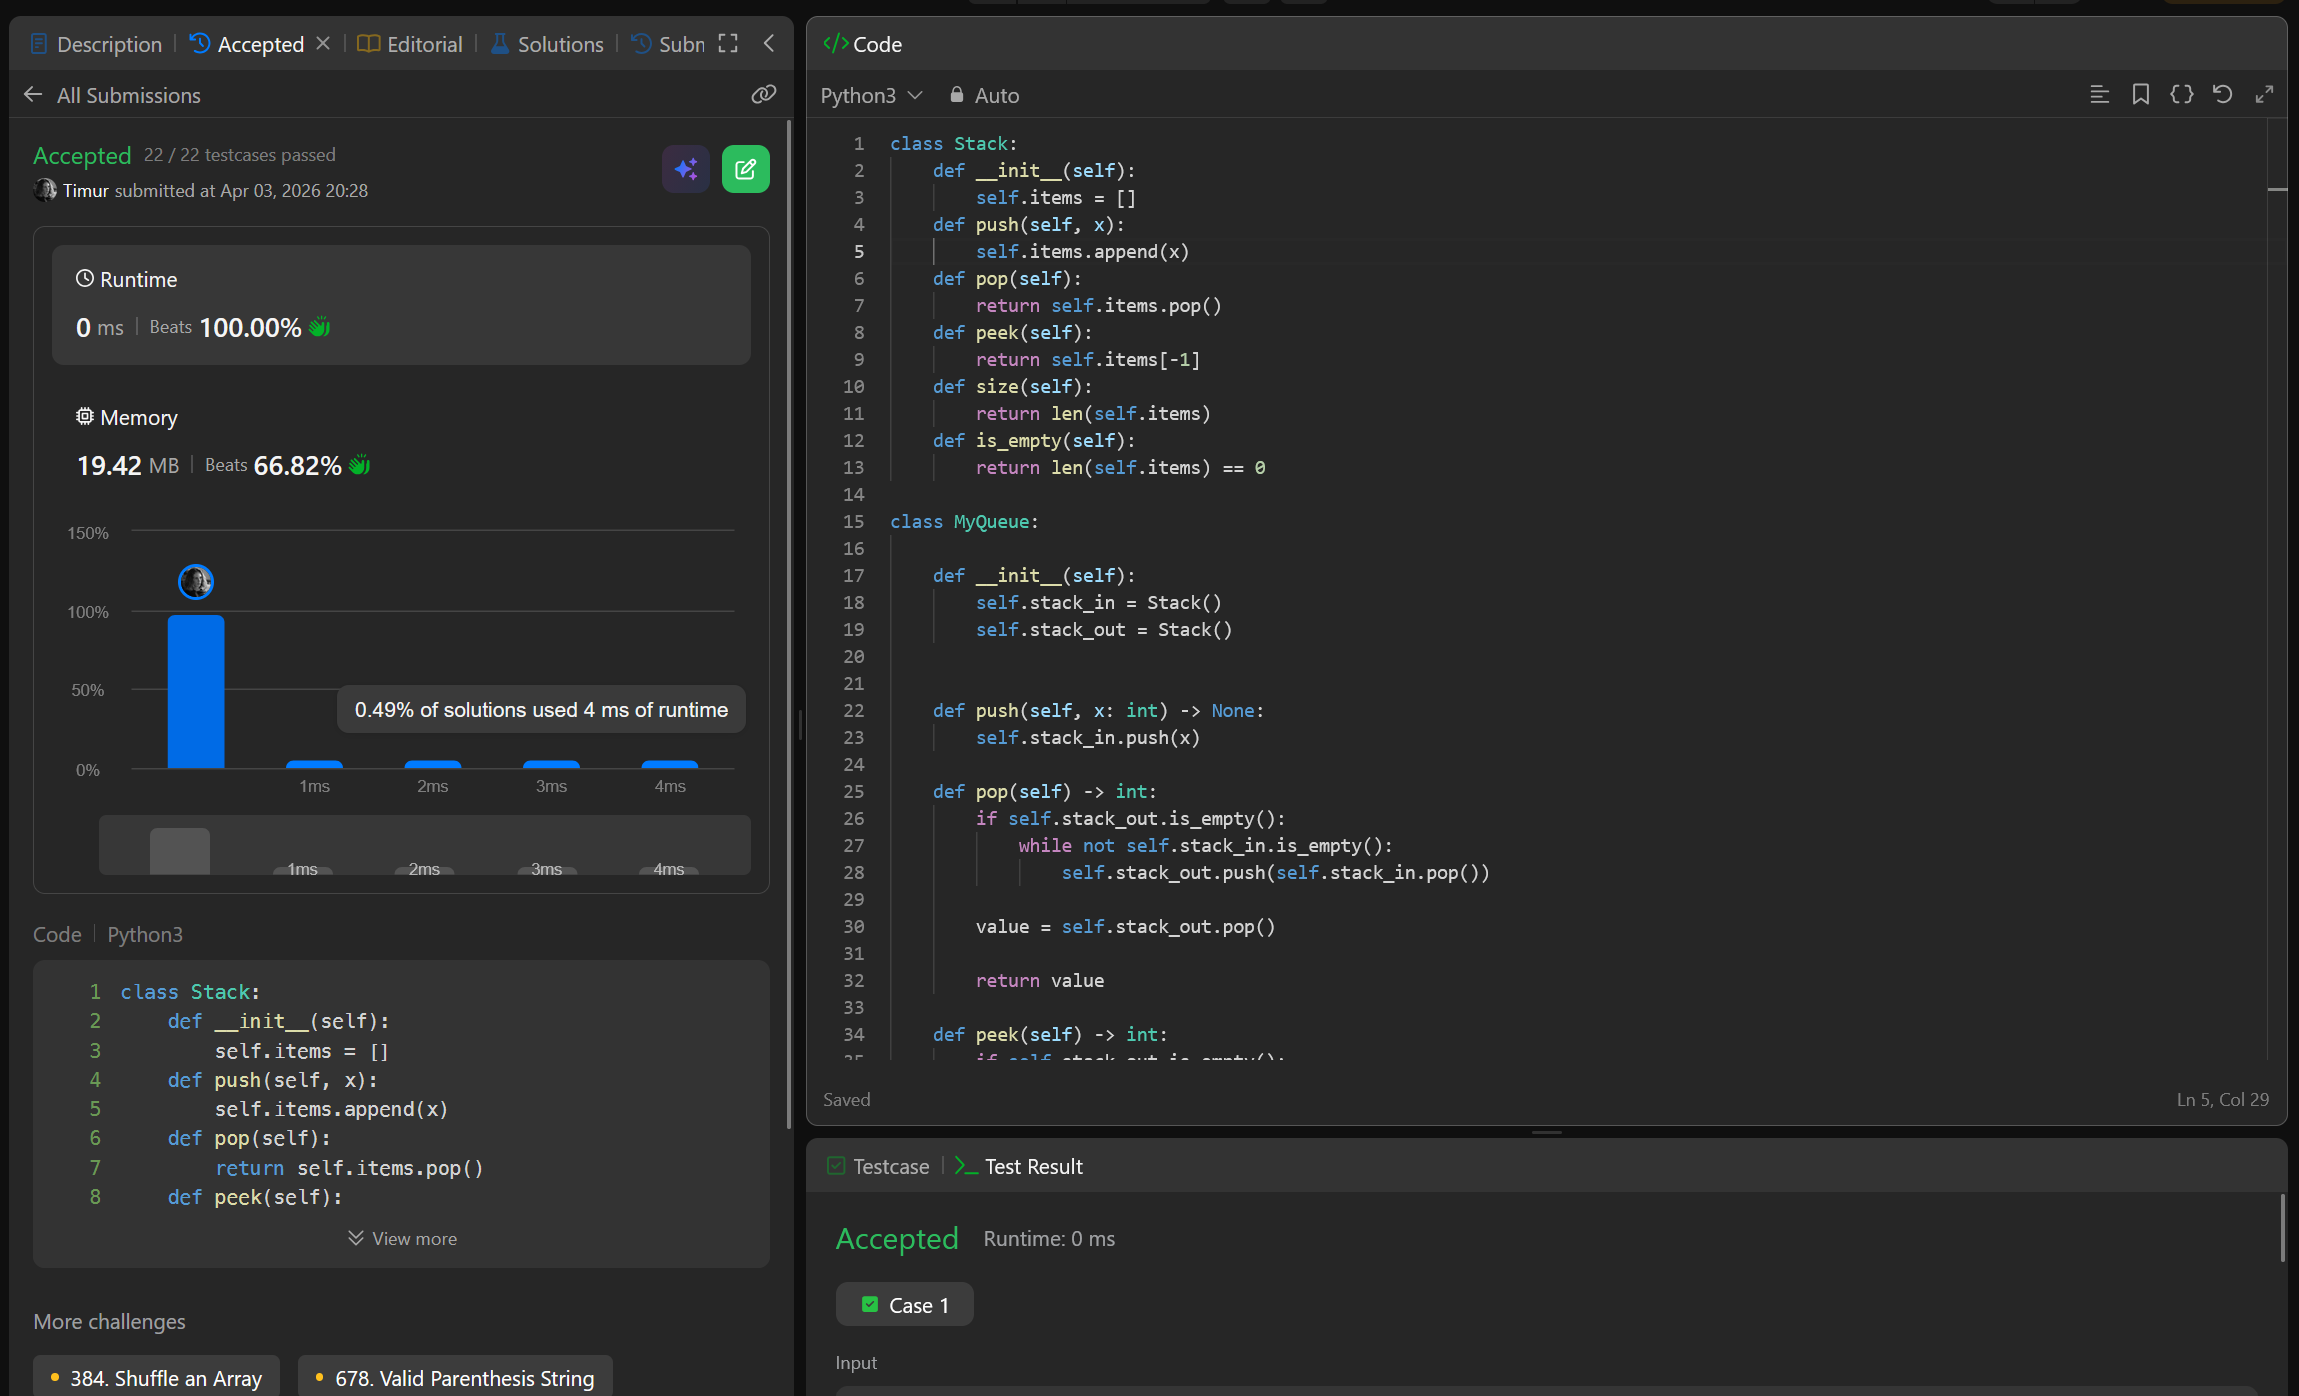
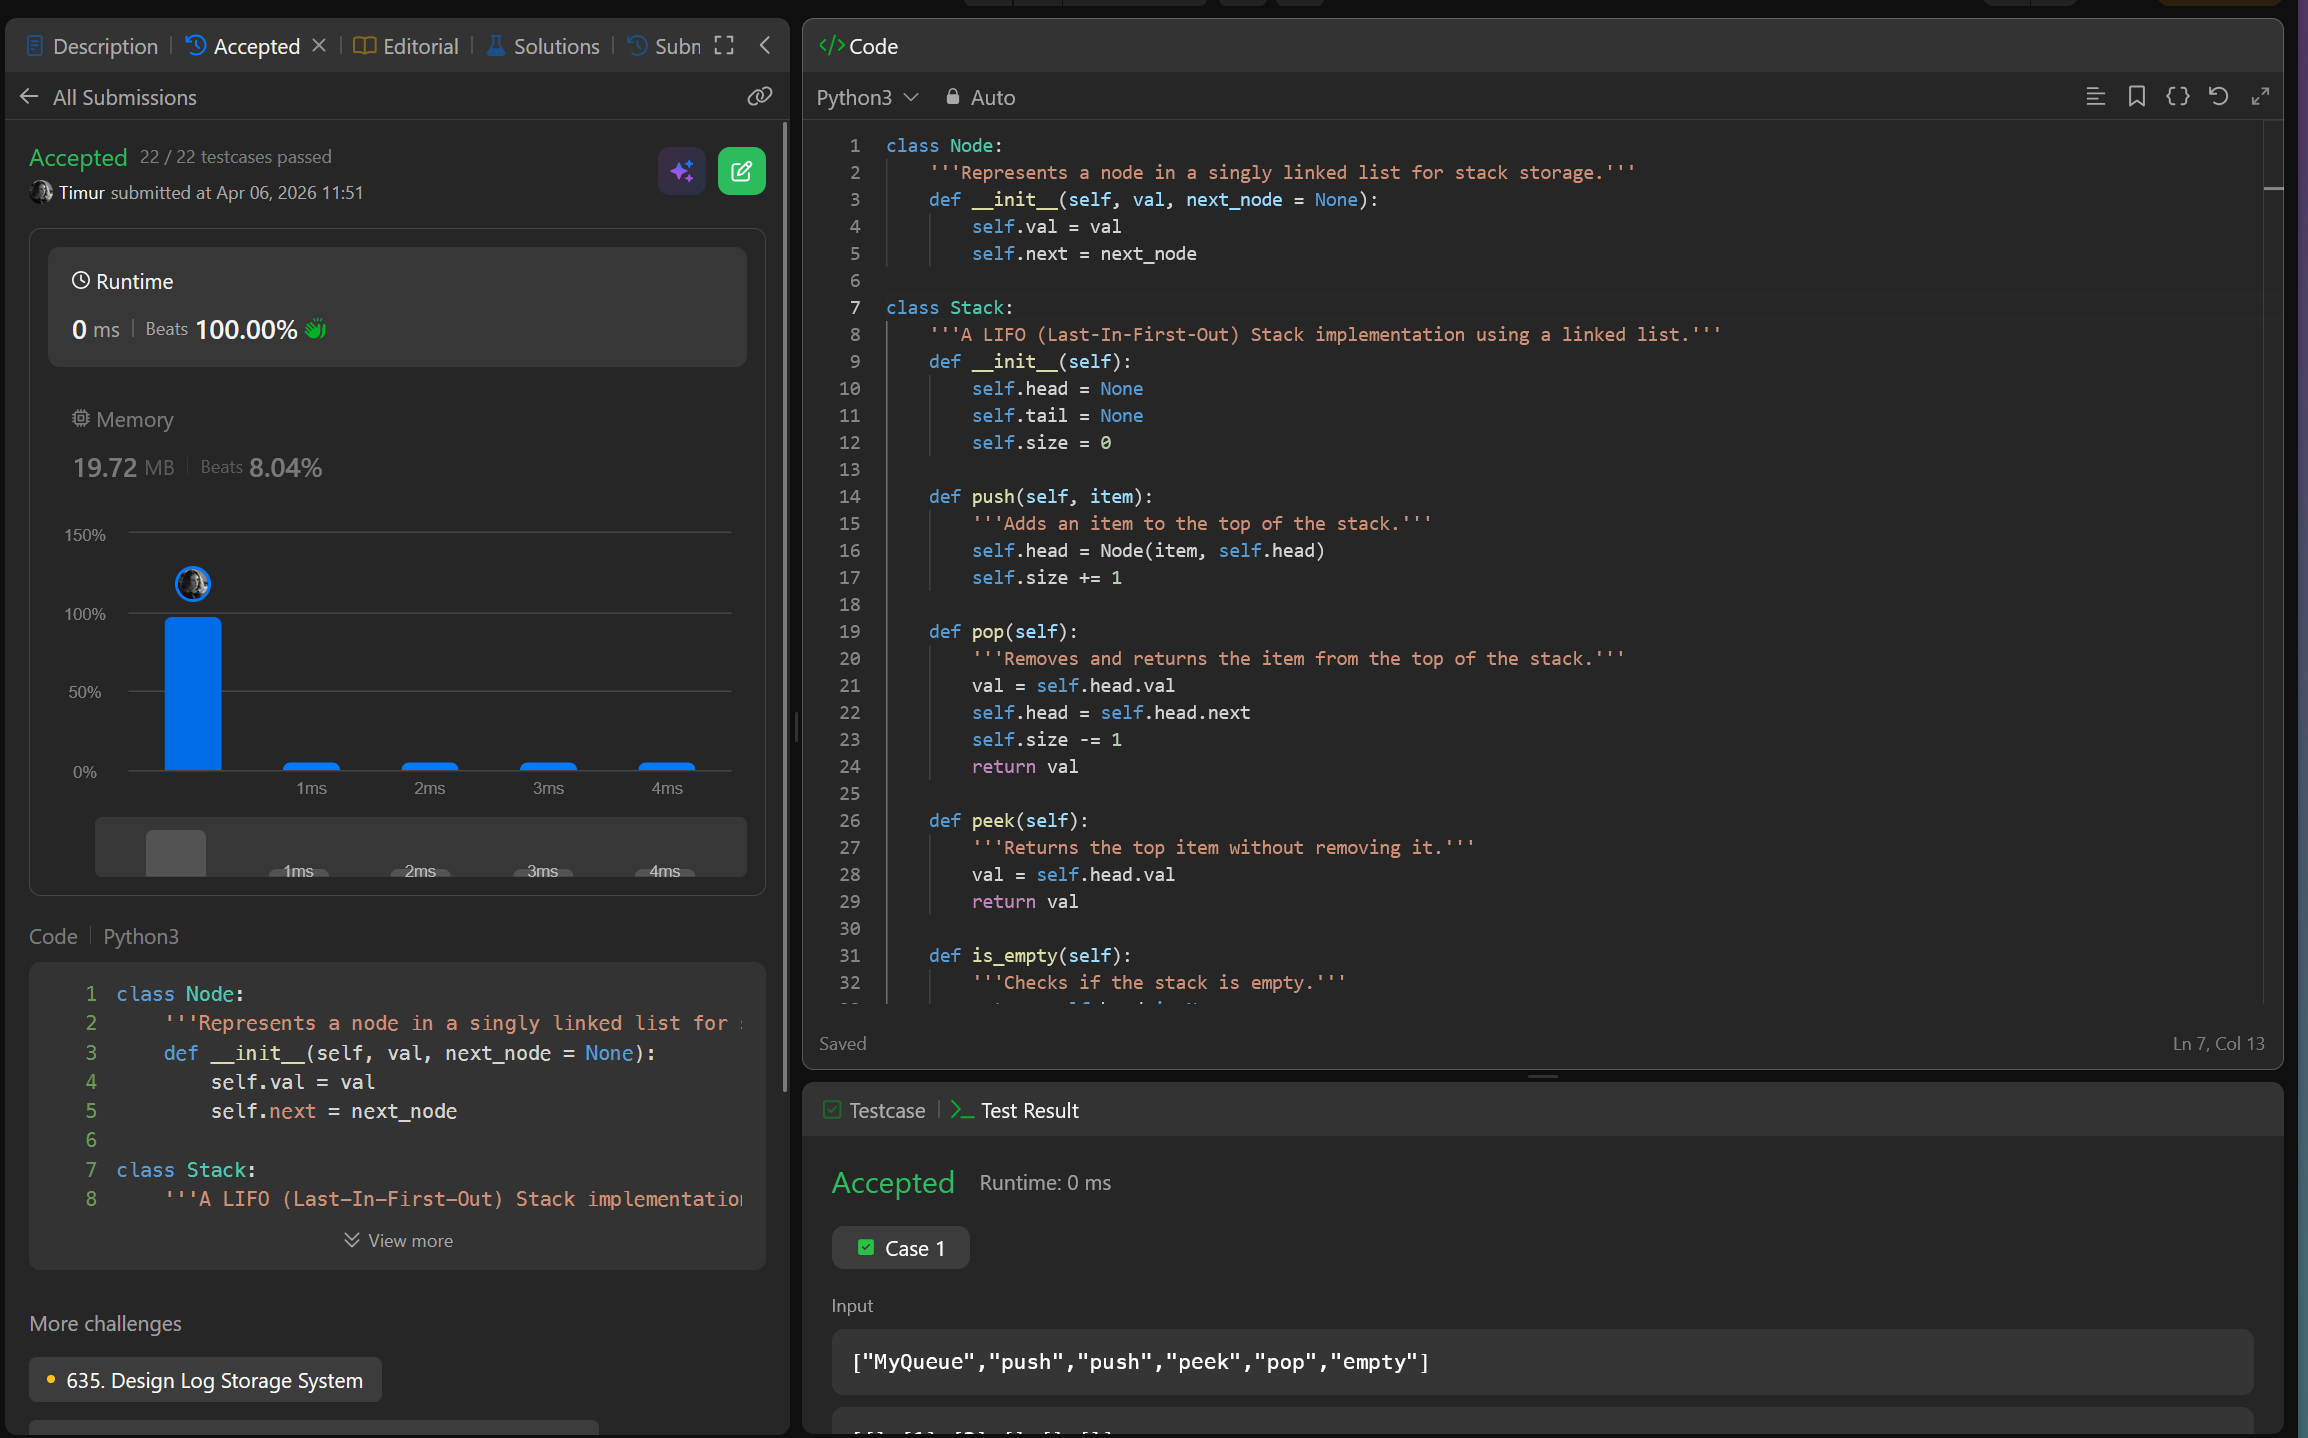
Remade Stack and Queue using linked list

diff --git a/Implement Queue using Stacks/solution.py b/Implement Queue using Stacks/solution.py
@@ -1,16 +1,40 @@
+class Node:
+    '''Represents a node in a singly linked list for stack storage.'''
+    def __init__(self, val, next_node = None):
+        self.val = val
+        self.next = next_node
+
 class Stack:
+    '''A LIFO (Last-In-First-Out) Stack implementation using a linked list.'''
     def __init__(self):
-        self.items = []
-    def push(self, x):
-        self.items.append(x)
+        self.head = None
+        self.tail = None
+        self.size = 0
+
+    def push(self, item):
+        '''Adds an item to the top of the stack.'''
+        self.head = Node(item, self.head)
+        self.size += 1
+
     def pop(self):
-        return self.items.pop()
+        '''Removes and returns the item from the top of the stack.'''
+        val = self.head.val
+        self.head = self.head.next
+        self.size -= 1
+        return val
+
     def peek(self):
-        return self.items[-1]
-    def size(self):
-        return len(self.items)
+        '''Returns the top item without removing it.'''
+        val = self.head.val
+        return val
+
     def is_empty(self):
-        return len(self.items) == 0
+        '''Checks if the stack is empty.'''
+        return self.head is None
+
+    def __len__(self):
+        '''Returns the number of elements in the stack.'''
+        return self.size
 
 class MyQueue:
 

diff --git a/Implement Stack using Queues/solution.py b/Implement Stack using Queues/solution.py
@@ -1,22 +1,45 @@
+class Node:
+    '''Represents a node in a singly linked list for stack storage.'''
+    def __init__(self, val, next_node = None):
+        self.val = val
+        self.next = next_node
+
 class Queue:
     def __init__(self):
-        self.items = []
+        self.head = None
+        self.tail = None
+        self._size = 0
 
     def is_empty(self) -> bool:
-        return len(self.items) == 0
+        return self.head is None
 
     def add(self, item):
-        self.items.append(item)
+        new_node = Node(item)
+        if self.tail is None:
+            self.head = new_node
+            self.tail = new_node
+        else:
+            self.tail.next = new_node
+            self.tail = new_node
+        self._size += 1
 
     def pop(self):
         if self.is_empty():
             return None
-        return self.items.pop(0)
+
+        removed_data = self.head.val
+        self.head = self.head.next
+
+        if self.head is None:
+            self.tail = None
+
+        self._size -= 1
+        return removed_data
 
     def peek(self):
         if self.is_empty():
             return None
-        return self.items[0]
+        return self.head.val
 
 class MyStack:
 
